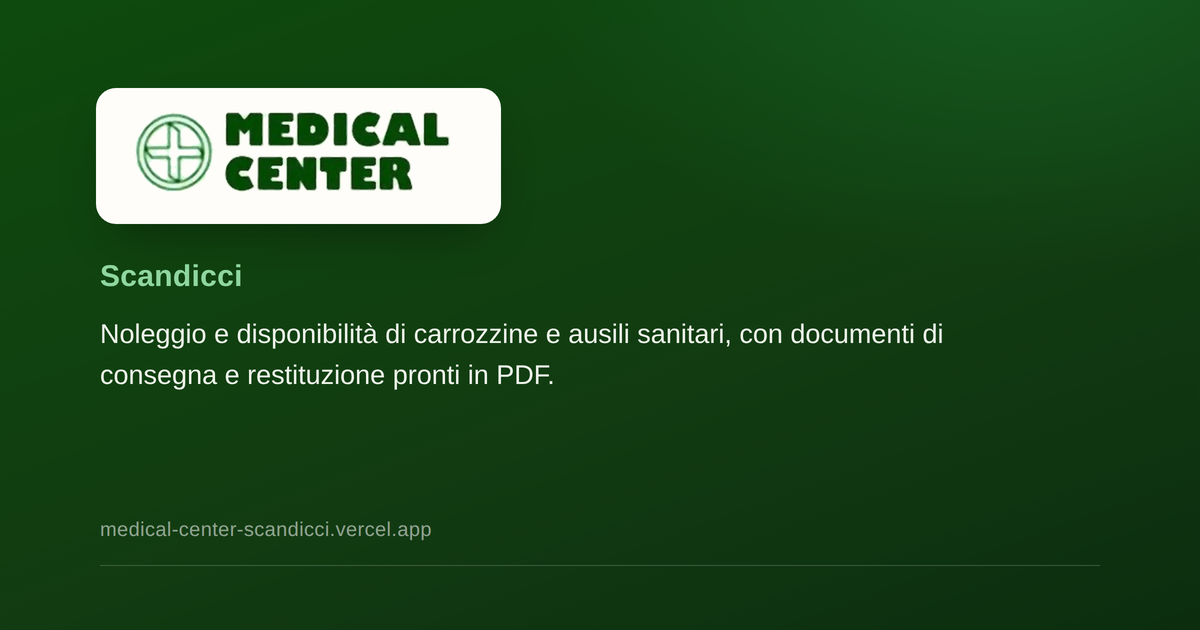
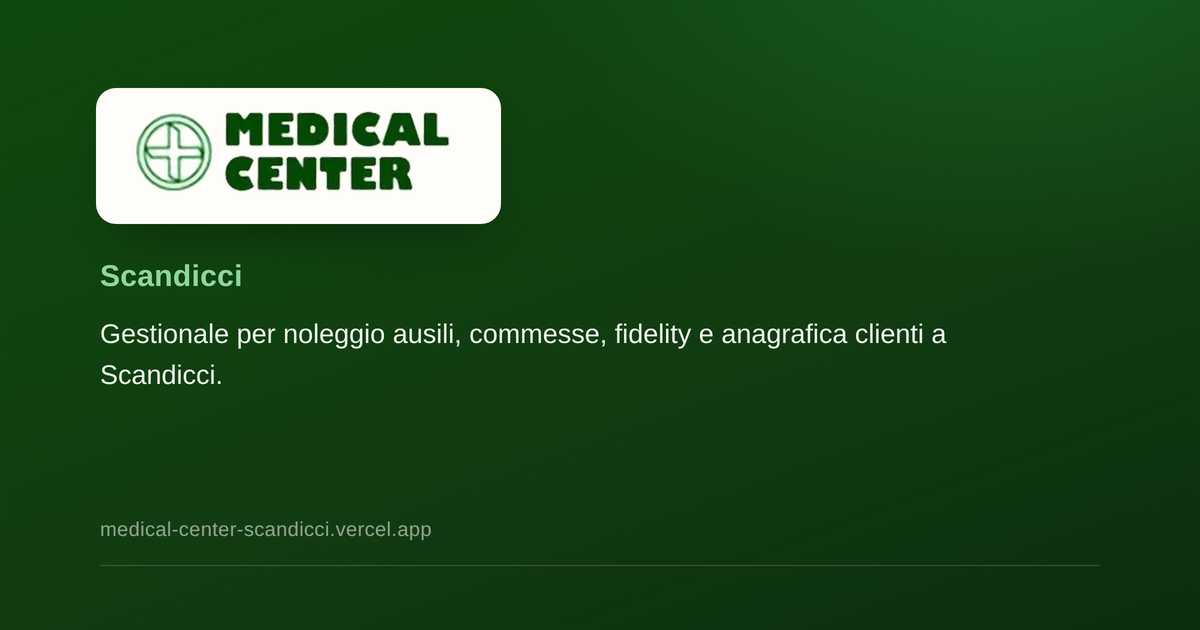
Fidelity: righe cliente cliccabili; descrizione non più solo noleggio
- Le righe cliente nelle tabelle di Fidelity ("Vicini o oltre la soglia"
  e "Tutti i clienti con punti") ora portano alla scheda del cliente in
  Clienti, con lo stesso meccanismo di link diretto già usato per
  dispositivi e commesse (nome esatto, non ricerca sfumata, e scheda
  aperta subito all'arrivo).
- La descrizione del sito (title/meta, manifest PWA, anteprima social)
  parlava solo di noleggio carrozzine: ora nomina anche commesse,
  fidelity e anagrafica clienti, le altre sezioni già in produzione da
  tempo. Rigenerata anche l'immagine di anteprima con il nuovo testo.
- Rimosso dal foglio Google un dispositivo di test ("prova") rimasto fra
  i dati reali del magazzino.

Changed region(s): [[0.0617, 0.5127, 0.8017, 0.6333]]

diff --git a/src/components/ClientsClient.tsx b/src/components/ClientsClient.tsx
@@ -18,6 +18,11 @@ interface ClientsClientProps {
   clients: ClientRecord[];
   history: HistoryEvent[];
   devices: Device[];
+  /** Nome arrivato come parametro nell'indirizzo (es. da una riga di
+   * Fidelity "Vicini o oltre la soglia"): precompila la ricerca e apre
+   * subito la scheda, così il clic porta davvero al cliente invece che
+   * a un elenco intero da scorrere. */
+  initialQuery?: string;
 }
 
 const EVENT_LABEL: Record<HistoryEvent["evento"], string> = {
@@ -41,11 +46,21 @@ export function ClientsClient({
   history,
   devices,
   contesto = "admin",
+  initialQuery,
 }: ClientsClientProps) {
   const banco = contesto === "banco";
   const [clients, setClients] = useState(initialClients);
-  const [query, setQuery] = useState("");
-  const [open, setOpen] = useState<string | null>(null);
+  const [query, setQuery] = useState(initialQuery ?? "");
+  // Un link diretto che arriva su un nome esatto apre già la scheda:
+  // altrimenti bisognerebbe cercarlo E cliccarlo, due passaggi invece di
+  // uno per l'unico caso in cui sappiamo già di preciso chi si sta
+  // cercando.
+  const [open, setOpen] = useState<string | null>(() => {
+    const q = (initialQuery ?? "").trim().toLowerCase();
+    if (!q) return null;
+    const esatto = initialClients.find((c) => c.nome.toLowerCase() === q);
+    return esatto ? esatto.nome : null;
+  });
   const [deleting, setDeleting] = useState<string | null>(null);
   const [importing, setImporting] = useState(false);
   const [puntiDelta, setPuntiDelta] = useState("");
@@ -124,6 +139,11 @@ export function ClientsClient({
   const filtered = useMemo(() => {
     const q = query.trim().toLowerCase();
     if (!q) return sorted;
+    // Un nome esatto vince sulla ricerca sfumata: stessa logica già
+    // applicata a Noleggi e Commesse, per lo stesso motivo (un link
+    // diretto non deve aprire anche clienti con un nome solo simile).
+    const esatti = sorted.filter((c) => c.nome.toLowerCase() === q);
+    if (esatti.length) return esatti;
     return sorted.filter((c) =>
       matchesQuery(
         [c.nome, c.telefono, c.cellulare, c.email, c.fidelity].filter(Boolean).join(" ").toLowerCase(),

diff --git a/src/app/layout.tsx b/src/app/layout.tsx
@@ -22,7 +22,7 @@ export const metadata: Metadata = {
   metadataBase: new URL(SITE_URL),
   title: "Medical Center",
   description:
-    "Noleggio e disponibilità di carrozzine e ausili sanitari a Scandicci, con documenti di consegna e restituzione pronti in PDF.",
+    "Gestionale per noleggio ausili, commesse, fidelity e anagrafica clienti a Scandicci.",
   icons: {
     icon: [{ url: "/favicon-32.png", sizes: "32x32", type: "image/png" }],
     apple: [{ url: "/apple-icon.png", sizes: "180x180", type: "image/png" }],
@@ -40,7 +40,7 @@ export const metadata: Metadata = {
   openGraph: {
     title: "Medical Center",
     description:
-      "Noleggio e disponibilità di carrozzine e ausili sanitari a Scandicci, con documenti di consegna e restituzione pronti in PDF.",
+      "Gestionale per noleggio ausili, commesse, fidelity e anagrafica clienti a Scandicci.",
     url: SITE_URL,
     siteName: "Medical Center",
     locale: "it_IT",
@@ -51,7 +51,7 @@ export const metadata: Metadata = {
     card: "summary_large_image",
     title: "Medical Center",
     description:
-      "Noleggio e disponibilità di carrozzine e ausili sanitari a Scandicci, con documenti di consegna e restituzione pronti in PDF.",
+      "Gestionale per noleggio ausili, commesse, fidelity e anagrafica clienti a Scandicci.",
     images: ["/og-image.png"],
   },
 };

diff --git a/src/components/FidelityView.tsx b/src/components/FidelityView.tsx
@@ -75,7 +75,9 @@ export function FidelityView({ clients, settings, commesseHref, clientiHref }: F
               <tbody>
                 {alPremio.map((c) => (
                   <tr key={c.nome}>
-                    <td>{c.nome}</td>
+                    <td>
+                      <Link href={`${clientiHref}?q=${encodeURIComponent(c.nome)}`}>{c.nome}</Link>
+                    </td>
                     <td>{c.fidelity ?? "—"}</td>
                     <td className="punti-cell">{c.punti.toLocaleString("it-IT")}</td>
                   </tr>
@@ -105,7 +107,9 @@ export function FidelityView({ clients, settings, commesseHref, clientiHref }: F
               <tbody>
                 {conPunti.map((c) => (
                   <tr key={c.nome}>
-                    <td>{c.nome}</td>
+                    <td>
+                      <Link href={`${clientiHref}?q=${encodeURIComponent(c.nome)}`}>{c.nome}</Link>
+                    </td>
                     <td>{c.fidelity ?? "—"}</td>
                     <td className="punti-cell">{c.punti.toLocaleString("it-IT")}</td>
                   </tr>

diff --git a/src/app/clienti/page.tsx b/src/app/clienti/page.tsx
@@ -7,8 +7,13 @@ import { ClientsClient } from "@/components/ClientsClient";
 
 export const dynamic = "force-dynamic";
 
-export default async function FrontClientiPage() {
-  const [clients, history, devices, settings] = await Promise.all([
+export default async function FrontClientiPage({
+  searchParams,
+}: {
+  searchParams: Promise<{ q?: string }>;
+}) {
+  const [{ q }, clients, history, devices, settings] = await Promise.all([
+    searchParams,
     listClients().catch(() => []),
     listHistory().catch(() => []),
     listDevices().catch(() => []),
@@ -18,7 +23,13 @@ export default async function FrontClientiPage() {
   return (
     <>
       <FrontBar logoUrl={settings.logoUrl} />
-      <ClientsClient clients={clients} history={history} devices={devices} contesto="banco" />
+      <ClientsClient
+        clients={clients}
+        history={history}
+        devices={devices}
+        contesto="banco"
+        initialQuery={q}
+      />
     </>
   );
 }

diff --git a/src/app/admin/clienti/page.tsx b/src/app/admin/clienti/page.tsx
@@ -8,12 +8,17 @@ export const dynamic = "force-dynamic";
 // L'anagrafica si popola già da sola a ogni noleggio (vedi rentDevice in
 // devices.ts) ma finora non era consultabile da nessuna parte: il dato
 // c'era, mancava solo questa pagina.
-export default async function ClientiPage() {
-  const [clients, history, devices] = await Promise.all([
+export default async function ClientiPage({
+  searchParams,
+}: {
+  searchParams: Promise<{ q?: string }>;
+}) {
+  const [{ q }, clients, history, devices] = await Promise.all([
+    searchParams,
     listClients().catch(() => []),
     listHistory().catch(() => []),
     listDevices().catch(() => []),
   ]);
 
-  return <ClientsClient clients={clients} history={history} devices={devices} />;
+  return <ClientsClient clients={clients} history={history} devices={devices} initialQuery={q} />;
 }

diff --git a/src/proxy.ts b/src/proxy.ts
@@ -4,7 +4,7 @@ import { requireBasicAuth } from "@/lib/basic-auth";
 const SITE_URL = "https://ricerca-carrozzine.vercel.app";
 const TITLE = "Medical Center";
 const DESCRIPTION =
-  "Noleggio e disponibilità di carrozzine e ausili sanitari a Scandicci, con documenti di consegna e restituzione pronti in PDF.";
+  "Gestionale per noleggio ausili, commesse, fidelity e anagrafica clienti a Scandicci.";
 
 // I crawler delle anteprime social (WhatsApp, Facebook, Telegram, ecc.) non
 // sanno autenticarsi con Basic Auth: senza login non ricevono altro che un

diff --git a/src/app/manifest.ts b/src/app/manifest.ts
@@ -5,7 +5,7 @@ export default function manifest(): MetadataRoute.Manifest {
     name: "Medical Center",
     short_name: "Medical Center",
     description:
-      "Noleggio e disponibilità di carrozzine e ausili sanitari a Scandicci, con documenti di consegna e restituzione pronti in PDF.",
+      "Gestionale per noleggio ausili, commesse, fidelity e anagrafica clienti a Scandicci.",
     start_url: "/",
     display: "standalone",
     // Stessi valori dei token in globals.css (--bg e --ink): la schermata di
